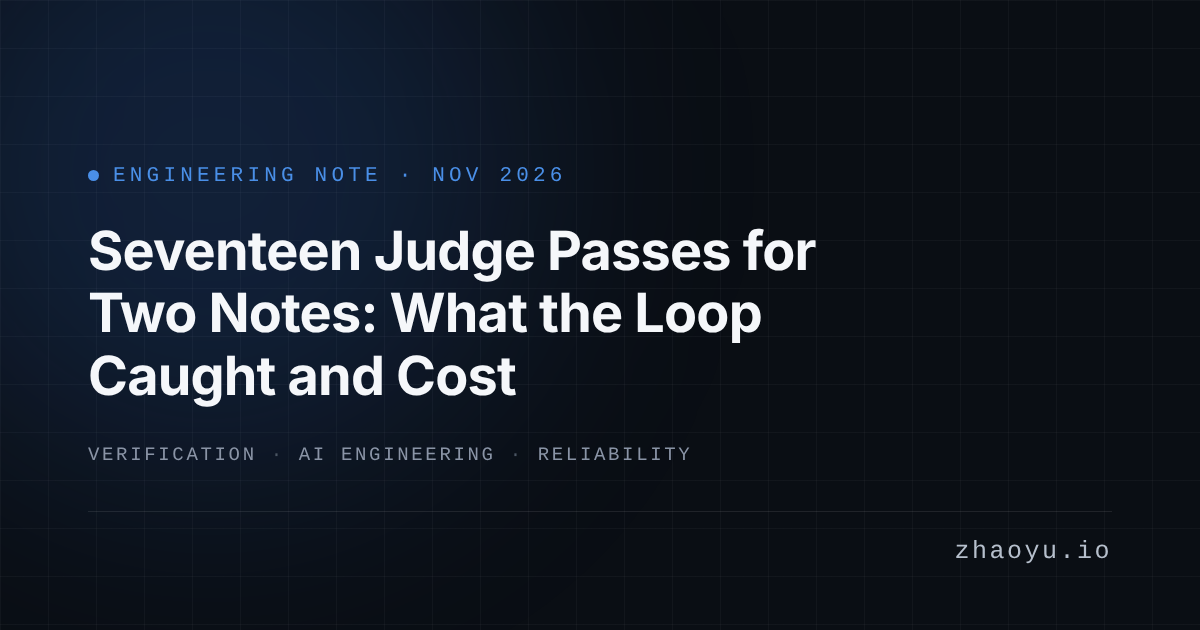
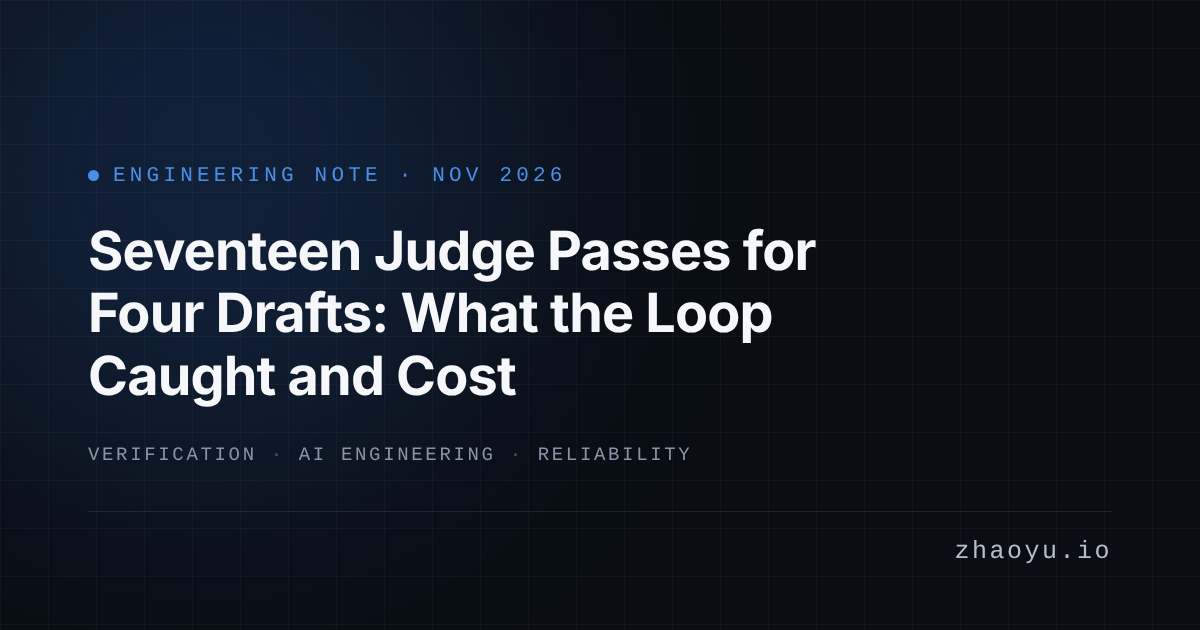
essay: first-round judge fixes (denominator, rule provenance, judge ordinal, receipt hosts, cadence)
The essay is about seventeen passes over four drafts, two of which shipped;
the title and opener now say so. The judge-never-the-author rule predates
the three-judges incident and is credited to the skill, with that note's
narrower lesson stated. The attribution finding came from the fourth judge
on its note, not the fifth. Receipts rest on forge revisions or the Windows
fleet host, not on repository revisions alone. Two paragraph-final
aphorisms flattened; the unsupported cost motive for the parked notes
removed; advisories on the session-log wording, the September rate, the
judge model, the self-preference finding's fine-tuning scope, and the
projection hedge taken. OG card regenerated for the new title.

Claude-Session: https://claude.ai/code/session_019Hz1veUwQAV3gTHBufJYm1

Changed region(s): [[0.0617, 0.4524, 0.6475, 0.5429]]

diff --git a/frontend/src/lib/constants/content.ts b/frontend/src/lib/constants/content.ts
@@ -245,7 +245,7 @@ export const notesData: NotesData = {
   notes: [
     {
       slug: 'seventeen-judge-passes-for-two-notes',
-      title: 'Seventeen Judge Passes for Two Notes: What the Loop Caught and Cost',
+      title: 'Seventeen Judge Passes for Four Drafts: What the Loop Caught and Cost',
       date: 'Nov 2026',
       dateISO: '2026-11-07',
       format: 'essay',
@@ -287,23 +287,23 @@ export const notesData: NotesData = {
         },
       ],
       content: [
-        "Two notes went live on this site this week after seventeen independent judge passes. The judges raised fourteen blocking findings, and every one was a sentence that a dated record did not support: a figure no record measured, a host the session log contradicted, a commit date read as a landing. None was a sentence the deterministic gates could have caught; the linter was clean on every pass. Each pass cost about 167,000 tokens and six minutes, and five of the ten failures were one-clause fixes that each bought a full pass. This is the first measurement of the control I built after <a href='/blog/your-checks-are-lying-to-you'>the fail-open essay</a>, and it says the control earns its keep on exactly one kind of sentence.",
-        "The loop is simple. A draft goes to a judge that did not write it, running in a fresh context with only the rubric, the draft and its provenance table. The judge first fails a known-dirty fixture, so a judge that passes anything is caught before it passes something real. It returns a verdict and an anchored findings table; I fix blocking findings in prose and send the draft back to a new judge, because an edit after a verdict is text the verdict never read. The final table goes into the pull request verbatim, with a disposition for every advisory. The rule underneath is the one <a href='/blog/three-judges-cleared-it-and-all-three-had-the-same-host'>three judges taught me in September</a>: self-review is self-attestation, and the judge is never the author.",
+        "Four note drafts went through seventeen independent judge passes this week, and two of them went live on this site. The judges raised fourteen blocking findings, and every one was a sentence that a dated record did not support: a figure no record measured, a host the session log contradicted, a commit date read as a landing. None was a sentence the deterministic gates could have caught; the linter was clean on every pass. Each pass cost about 167,000 tokens and six minutes, and five of the ten failures were one-clause fixes that each bought a full pass. This is the first measurement of the control I built after <a href='/blog/your-checks-are-lying-to-you'>the fail-open essay</a>, and it says the control earns its keep on one kind of sentence.",
+        "A draft goes to a judge that did not write it, running in a fresh context with only the rubric, the draft and its provenance table. The judge first fails a known-dirty fixture, so a judge that passes anything is caught before it passes something real. It returns a verdict and an anchored findings table; I fix blocking findings in prose and send the draft back to a new judge, because an edit after a verdict is text the verdict never read. The rule underneath, that the judge is never the author because self-review is self-attestation, was in the skill from the day I wrote it. What <a href='/blog/three-judges-cleared-it-and-all-three-had-the-same-host'>three judges taught me in September</a> was narrower: a second check counts only if something that decides the answer differs from the first. The final table goes into the pull request with a disposition for every advisory.",
         '<h2>What the judges caught</h2>',
-        'Fourteen blocking findings across ten failed passes. Five were receipts: a figure, a host or a prior belief the record did not support. Four were sequence: a date or an order the record states differently. Two were cadence, one was a mechanism stated larger than its record, one was an adoption claim without an artifact, and one was attribution. The four that would have embarrassed me most in print:',
-        '<ul><li>A note said a search that takes seconds alone took ten minutes under load. No record measured seconds. The only recorded solo timing was one to five minutes, and the contrast the paragraph turned on was invented.</li><li>A first-hand receipt named Windows as the host of four runs. My own session log, one directory away from the record I cited, said three of the four were cloud Linux containers. The judge opened both.</li><li>A note said a nightly check landed a day after an incident. The record dated its first commit a day after; it gave no merge date at all. I had written a commit date as a landing, in the same batch as a note arguing that merged is not running.</li><li>A note said one routine failed that morning. The outcome record, which I had not cited, showed two runs and two notices.</li></ul>',
-        "Each of these is plausible, fluent, and wrong by a detail that only the record at its revision could settle. That is the class the judge exists for. In September, ten judge passes over two drafts failed every one on this class with the deterministic gates green throughout, which is why the rubric now carries a tense tripwire and a causal-direction check. This week's ledger says the tripwire is where the yield is: the judges spent their blocking findings on the relation between a sentence and a dated artifact, and not on anything the linter already covers.",
+        'Fourteen blocking findings across ten failed passes. Five were receipts: a figure, a host or a prior belief the record did not support. Four were sequence: a date or an order the record states differently. Two were cadence, one was a mechanism stated larger than its record, one was an adoption claim without an artifact, and one was attribution. Three of the four below came from drafts that were later parked, and all four would have embarrassed me in print.',
+        '<ul><li>A note said a search that takes seconds alone took ten minutes under load. No record measured seconds. The only recorded solo timing was one to five minutes, and the contrast the paragraph turned on was invented.</li><li>A first-hand receipt named Windows as the host of four runs. My own session log, one directory away from the record I cited, recorded three of the four as scheduled cloud runs, not the desktop. The judge opened both.</li><li>A note said a nightly check landed a day after an incident. The record dated its first commit a day after; it gave no merge date at all. I had written a commit date as a landing, in the same batch as a note arguing that merged is not running.</li><li>A note said one routine failed that morning. The outcome record, which I had not cited, showed two runs and two notices.</li></ul>',
+        "Each of these is plausible, fluent, and wrong by a detail that only the record at its revision could settle. That is the class the judge exists for. In September, ten judge passes over two drafts came back with none clean, almost every failure a fabricated mechanism, with the deterministic gates green throughout, which is why the rubric now carries a tense tripwire and a causal-direction check. This week's ledger says the tripwire is where the yield is: the judges spent their blocking findings on the relation between a sentence and a dated artifact, and not on anything the linter already covers.",
         '<h2>What they disagreed about</h2>',
-        "The judges contradicted each other once, and the contradiction is in the rubric. The third judge on one note asked, as an advisory, that a practice be owned in the first person: say <em>I now write</em>, not <em>a closure now names</em>, because the worth test wants the author's own before and after. The fifth judge on the same note failed, as blocking, every first-person act in it: the fix was landed by a scheduled routine, the prediction was the routine's, the ledger rows were classified by an outcome record another routine wrote. The receipts rule wants the record's actor. Both judges cited the skill correctly. I resolved it as an owner decision recorded in the pull request: the fleet's routines act as my agents, concrete acts are stated at the record's size, and the lesson stays in first person.",
-        'Some disagreement is the expected cost of independent judges, and I now have two numbers for it. Zheng and colleagues, in the paper that named LLM-as-a-judge, report that a strong model agrees with human preferences over 80 percent of the time, which they describe as the same level of agreement between humans. My own September baseline ran two independent checkers over the same 43 vault notes: they agreed on 32 verdicts, and on the single FAIL they converged on the same note, the same defect and the same repair. The pattern held this week in a weaker form. The blocking findings were reproducible in kind; the advisories varied with the judge.',
-        "The biases the literature names are the reason for the loop's structure, and one of them the loop does not control. Zheng and colleagues list position, verbosity and self-enhancement bias. Wang and colleagues showed that swapping the order of two candidate answers can flip the verdict, with one model beating a stronger one on 66 of 80 queries once the evaluator was gamed. Panickssery, Bowman and Feng found that evaluators score their own outputs higher than humans do, and that the effect grows linearly with how well the model recognises its own text. A judge that never sees two candidates has no order to be biased by, and a judge that is not the author cannot favour its own draft. But every judge this week was the same model as the author, and self-preference is a property of the model, not the context. The fresh context removes the drafting rationale. Whether the shared model also inflated the pass rate is something this ledger cannot say.",
+        "The judges contradicted each other once, and the contradiction is in the rubric. The third judge on one note asked, as an advisory, that a practice be owned in the first person: say \u201cI now write\u201d rather than \u201ca closure now names\u201d, because the worth test wants the author's own before and after. The fourth judge on the same note failed, as blocking, every first-person act in it: the fix branch, the prediction and the draft all belonged to scheduled routines in the fleet. The receipts rule wants the record's actor. Both judges cited the skill correctly. I resolved it as an owner decision recorded in the pull request: the fleet's routines act as my agents, concrete acts are stated at the record's size, and the lesson stays in first person.",
+        'Some disagreement is the expected cost of independent judges. Zheng and colleagues, in the paper that named LLM-as-a-judge, report that a strong model agrees with human preferences over 80 percent of the time, which they describe as the same level of agreement between humans. My own September baseline ran two independent checkers over the same 43 vault notes: they agreed on 32 verdicts and converged on the single FAIL, the same note, defect and repair. The pattern held this week in a weaker form. The blocking findings were reproducible in kind; the advisories varied with the judge.',
+        "The biases the literature names are the reason for the loop's structure, and one of them the loop does not control. Zheng and colleagues list position, verbosity and self-enhancement bias. Wang and colleagues showed that swapping the order of two candidate answers can flip the verdict, with one model beating a stronger one on 66 of 80 queries once the evaluator was gamed. Panickssery, Bowman and Feng found that evaluators score their own outputs higher than humans do, and that when they fine-tuned models to recognise their own text, the bias grew in step with the recognition. A judge that never sees two candidates has no order to be biased by, and a judge that is not the author cannot favour its own draft. But every judge this week ran on the author's model, since I did not override the harness default, and self-preference is a property of the model, not the context. The fresh context removes the drafting rationale. Whether the shared model also inflated the pass rate is something this ledger cannot say.",
         '<h2>What it cost</h2>',
-        'Seventeen passes consumed 2.84 million tokens and 104 minutes of judge time, a mean of 167,000 tokens and six minutes per pass, with the fixture included. The cost is per pass, not per finding. A pass that found three defects and a pass that found one wrong preposition cost the same, because the contract says a blocking fix is re-judged by a judge that did not author it, and a fresh context has to reread the rubric, the draft and every record. Five of the ten failures were one-clause fixes. Scoping those re-judges to the changed claim would have saved roughly a third of the spend. The contract does not provide for it, and I have not changed the contract.',
+        'Seventeen passes consumed 2.84 million tokens and 104 minutes of judge time, fixture included: a mean of 167,000 tokens and six minutes per pass. The cost is per pass, not per finding. A pass that found three defects and a pass that found one wrong preposition cost the same, because a blocking fix is re-judged by a judge that did not author it, and a fresh context rereads the rubric, the draft and every record. Five of the ten failures were one-clause fixes. Scoping those re-judges to the changed claim would have saved about a third of the spend, on a projection rather than a measurement. The contract does not provide for it, and I have not changed the contract.',
         'The fixture never discriminated. Seventeen of seventeen judges failed it, each with findings covering the four classes the answer key requires. That is the designed outcome, and it also means the fixture has not yet told me anything a pass over the real draft did not. I keep it because the judge it would catch, one that passes a draft with invented figures and stacked aphorisms, is the one failure of this loop I could not see any other way, and because a fixture costs a fraction of a pass.',
-        "The loop also has a floor it cannot lower. Every first-hand receipt in the two notes names a revision in a repository the cloud session could not reach. Each judge verified those mechanisms against the vault's dated records and marked the artifacts themselves could-not-run, on every pass, correctly. The notes shipped on record-level receipts with that status disclosed in every source field, which is the precedent three earlier notes set. It is also the standard the notes argue against. From the cloud, the loop could confirm that each story matched its record, and nothing about the record itself.",
+        "The loop also has a floor it cannot lower. Every first-hand receipt in the two shipped notes rests on a forge revision or on the Windows machine the fleet runs on, and the cloud session could reach neither. Each judge verified those mechanisms against the vault's dated records and marked the artifacts themselves could-not-run, on every pass, correctly. The notes shipped on record-level receipts with that status disclosed in every source field, the precedent three earlier notes set. It is also the standard the notes argue against: from the cloud, the loop confirmed that each story matched its record, and the records themselves stayed unopened.",
         '<h2>What I would change</h2>',
         "<ol><li>Price a re-judge by the size of the fix. A one-clause fix should get a scoped pass over the changed claim and its provenance line, by a fresh judge, with the full pass reserved for a rewrite. The contract's reason for a full pass, that the judge is never the author, survives the scoping.</li><li>Put the actor in the provenance table. Every first-person verb in a draft gets a row naming who the record says did it. The attribution question is then answered before the judge opens the record, and the rubric tension above cannot re-fire.</li><li>Record owner decisions as standing rules, not per-PR dispositions. The decision that routines act as my agents was taken once this week and will be re-asked on every forge-sourced note until it lives in the skill.</li><li>Measure judge agreement on a fixed draft, periodically, the way the September baseline did. Successive judges over a changing draft cannot give an agreement rate; two judges over the same text can.</li></ol>",
-        'None of the four is landed. The ledger is in my notes, the contract is as it was, and the two notes are live under the old rules. The honest status is that I now know what the loop costs and what it catches, and have not yet spent the judgment on whether the first is worth the second at this cadence. For two notes a week it is. For the four-note batch I started with, it was not, and two of those notes are parked partly because of it.',
+        'None of the four is landed. The ledger is in my notes, the contract is as it was, and the two notes are live under the old rules. I now know what the loop costs and what it catches, and have not yet decided whether the first is worth the second at this cadence. For two notes a week it is. For the four-draft batch I started with it was not: thirteen passes to bring four drafts to a verdict, before any decision about shipping.',
         '<strong>A judge pays for itself on one kind of sentence, the plausible one no record supports. Price every pass against that sentence, and nothing else.</strong>',
       ],
     },
